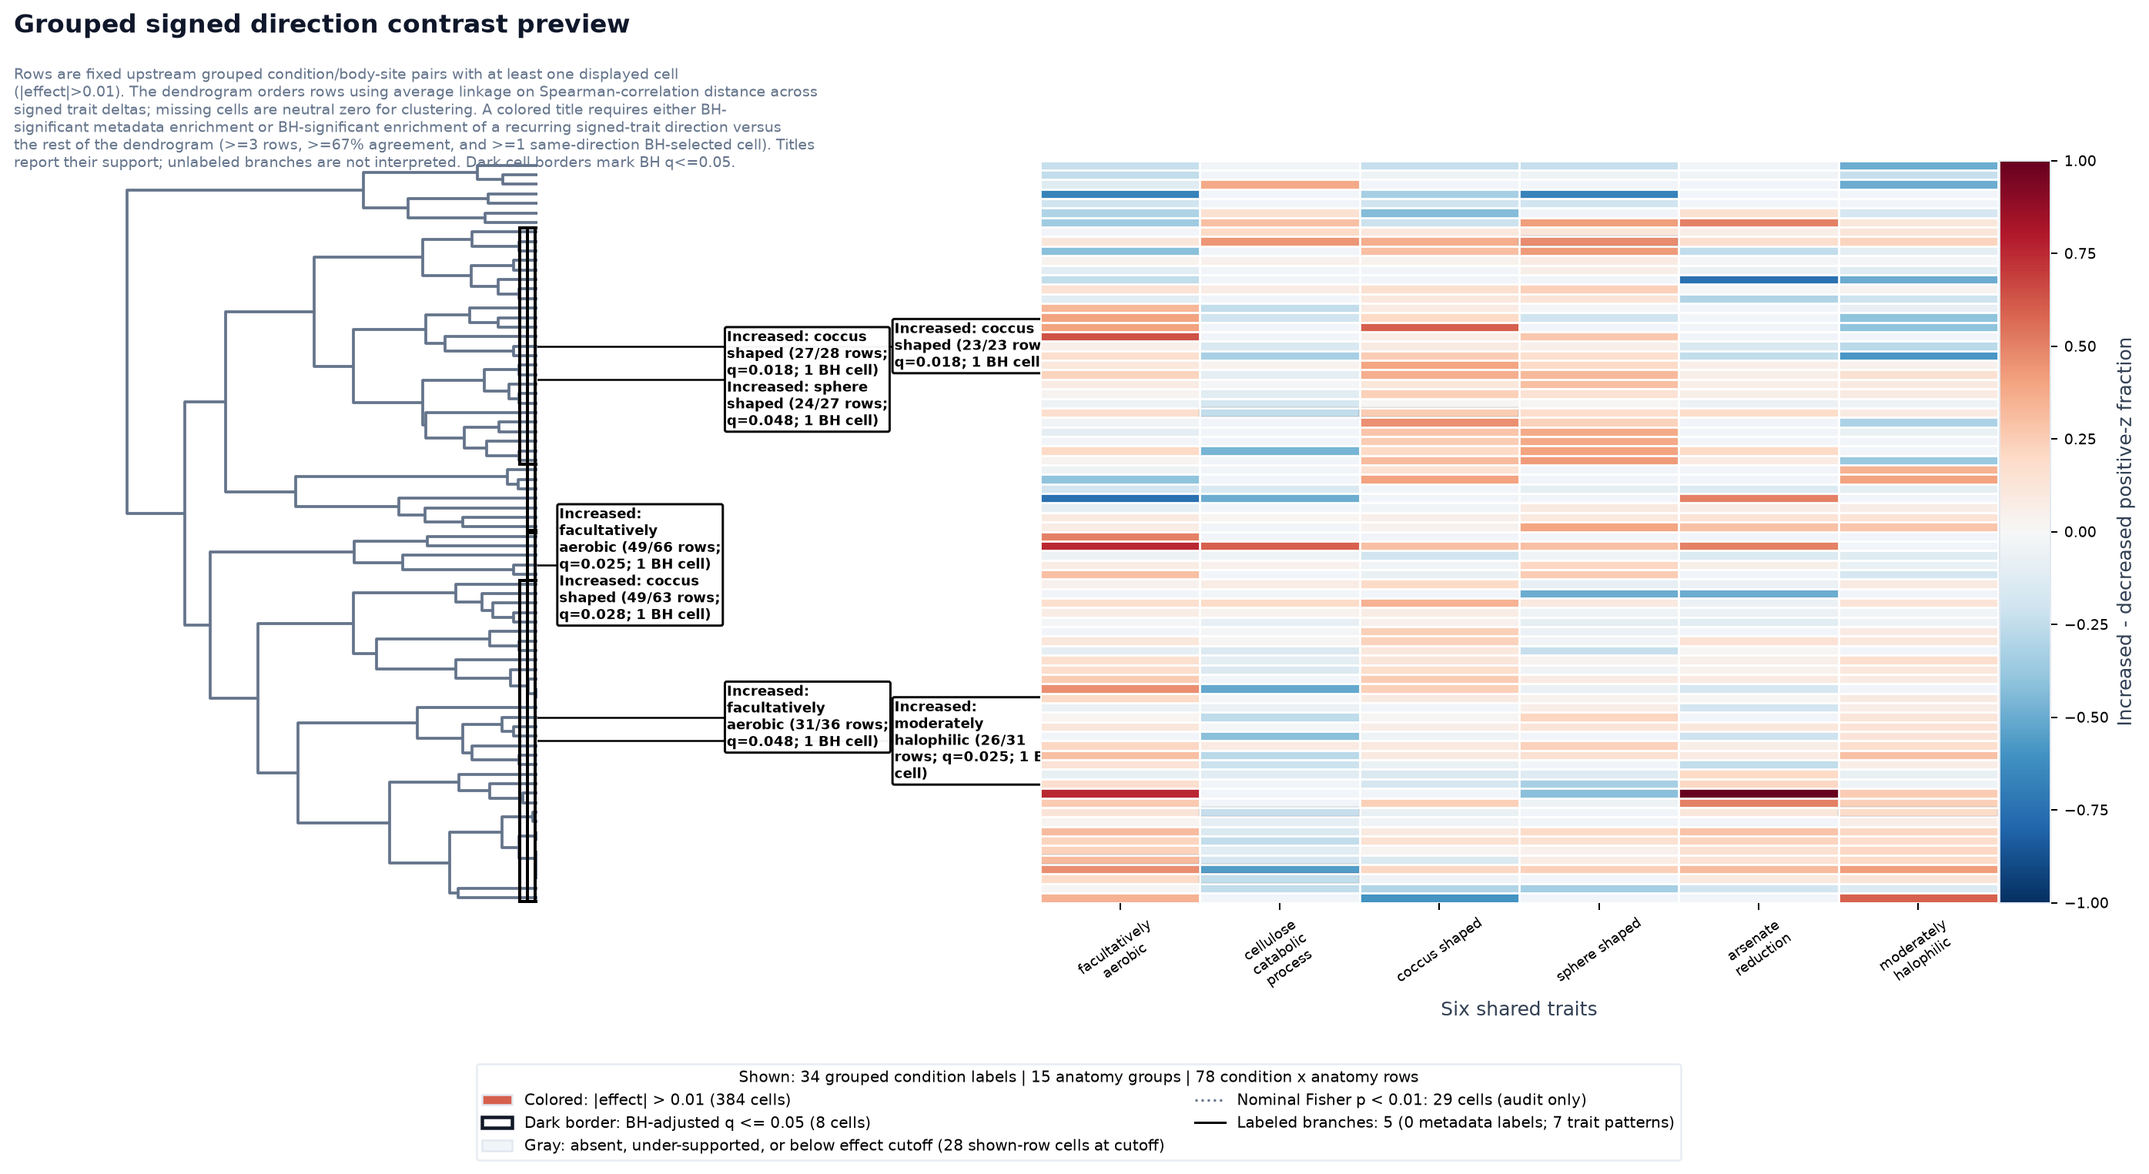
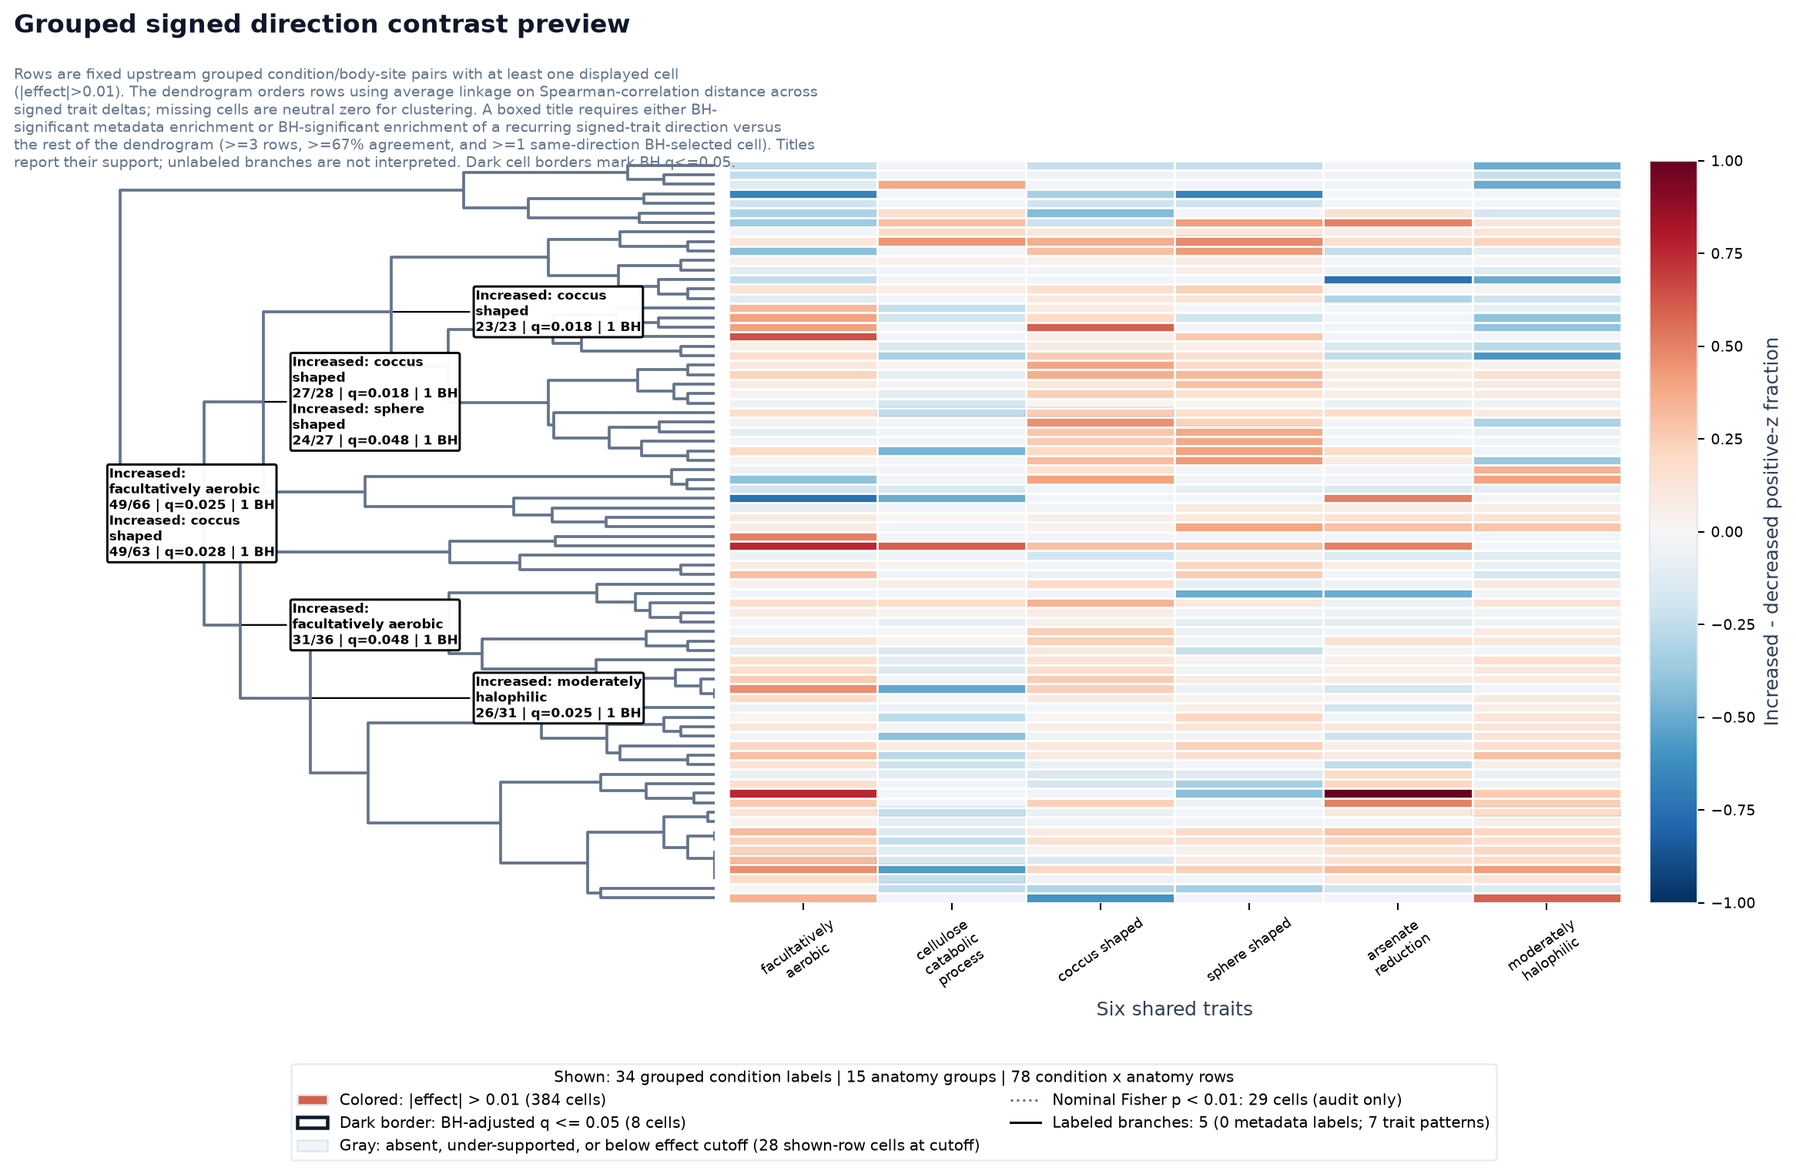
Compact signed direction dendrogram labels

diff --git a/scripts/create_six_shared_trait_cytoscape_heatmaps.py b/scripts/create_six_shared_trait_cytoscape_heatmaps.py
@@ -3,6 +3,7 @@
 from __future__ import annotations
 
 import math
+import re
 from dataclasses import dataclass
 from pathlib import Path
 from textwrap import wrap
@@ -157,6 +158,23 @@ def wrap_label(value: object, width: int = 24) -> str:
     """Wrap labels for compact heatmap axes."""
     text = str(value)
     return "\n".join(wrap(text, width=width, break_long_words=False)) or text
+
+
+def compact_dendrogram_label(value: object, *, width: int) -> str:
+    """Return a compact branch title for placement inside the dendrogram."""
+    text = str(value)
+    matches = re.findall(
+        r"(Increased|Decreased)-associated (.*?) "
+        r"\((\d+/\d+) rows; q=([^;]+); (\d+) BH cells?\)",
+        text,
+    )
+    if not matches:
+        return wrap_label(text, width=width)
+    lines = []
+    for direction, trait, row_fraction, q_value, bh_count in matches:
+        lines.append(wrap_label(f"{direction}: {trait}", width=width))
+        lines.append(f"{row_fraction} | q={q_value} | {bh_count} BH")
+    return "\n".join(lines)
 
 
 def format_p_value(value: float) -> str:
@@ -1474,47 +1492,48 @@ def plot_grouped_clustered_contrast_heatmap(
     )
     if preview:
         fig_height = 8.5
-        fig_width = 14.0 + 0.9 * label_track_count
+        fig_width = 13.8
         left = 0.08
         right = 0.92
         top = 0.86
         bottom = 0.23
         label_width = 0.01
-        branch_label_width = 1.05 * label_track_count
+        dendrogram_width = 4.2
         show_row_labels = False
         show_cell_text = False
     else:
         fig_height = max(9.5, 3.2 + 0.34 * row_count)
-        fig_width = 22.0 + 1.0 * label_track_count
+        fig_width = 22.0
         left = 0.04
         right = 0.965
         top = 1 - 1.55 / fig_height
         bottom = 1.8 / fig_height
         label_width = 3.2
-        branch_label_width = 1.1 * label_track_count
+        dendrogram_width = 4.8
         show_row_labels = True
         show_cell_text = True
 
     fig = plt.figure(figsize=(fig_width, fig_height), facecolor="white")
     grid = fig.add_gridspec(
         1,
-        5,
-        width_ratios=[2.7, branch_label_width, 6.0, label_width, 0.32],
+        4,
+        width_ratios=[dendrogram_width, 6.0, label_width, 0.32],
         left=left,
         right=right,
         top=top,
         bottom=bottom,
-        wspace=0.0,
+        wspace=0.035,
     )
     dendro_ax = fig.add_subplot(grid[0, 0])
-    branch_label_ax = fig.add_subplot(grid[0, 1])
-    ax = fig.add_subplot(grid[0, 2])
-    row_label_spacer_ax = fig.add_subplot(grid[0, 3])
-    cbar_ax = fig.add_subplot(grid[0, 4])
+    ax = fig.add_subplot(grid[0, 1])
+    row_label_spacer_ax = fig.add_subplot(grid[0, 2])
+    cbar_ax = fig.add_subplot(grid[0, 3])
 
     y_extent = row_count * 10
+    branch_node_x: dict[int, float] = {}
+    branch_node_y: dict[int, float] = {}
     if linkage_matrix is not None:
-        dendrogram(
+        dendrogram_data = dendrogram(
             linkage_matrix,
             orientation="left",
             no_labels=True,
@@ -1523,7 +1542,18 @@ def plot_grouped_clustered_contrast_heatmap(
             ax=dendro_ax,
         )
         dendro_ax.set_ylim(y_extent, 0)
-    dendro_ax.axis("off")
+        branch_node_y.update(
+            {
+                int(leaf_index): position * 10 + 5
+                for position, leaf_index in enumerate(dendrogram_data["leaves"])
+            }
+        )
+        for offset, linkage_row in enumerate(linkage_matrix):
+            node_id = row_count + offset
+            left_node = int(linkage_row[0])
+            right_node = int(linkage_row[1])
+            branch_node_x[node_id] = float(linkage_row[2])
+            branch_node_y[node_id] = (branch_node_y[left_node] + branch_node_y[right_node]) / 2
 
     branches_to_plot = (
         cluster_summary.sort_values(["nesting_depth", "leaf_start", "branch_node_id"])
@@ -1531,70 +1561,28 @@ def plot_grouped_clustered_contrast_heatmap(
         else cluster_summary
     )
     for branch in branches_to_plot.itertuples(index=False):
-        start = int(branch.leaf_start) * 10
-        end = (int(branch.leaf_end) + 1) * 10
-        midpoint = (start + end) / 2
         track = int(branch.nesting_depth)
-        bracket_x = 0.995 - 0.018 * track
-        dendro_ax.plot(
-            [bracket_x, bracket_x],
-            [start + 1, end - 1],
-            color="black",
-            linewidth=2.1 if not preview else 1.6,
-            solid_capstyle="round",
-            transform=dendro_ax.get_yaxis_transform(),
-            clip_on=False,
-            zorder=2,
+        node_id = int(branch.branch_node_id)
+        node_y = branch_node_y.get(
+            node_id,
+            (int(branch.leaf_start) + int(branch.leaf_end) + 1) * 5,
         )
-        dendro_ax.plot(
-            [bracket_x, 1.005],
-            [start + 1, start + 1],
-            color="black",
-            linewidth=2.1 if not preview else 1.6,
-            transform=dendro_ax.get_yaxis_transform(),
-            clip_on=False,
-            zorder=2,
+        node_x = branch_node_x.get(node_id, 0.0)
+        track_spacing = 0.88 / max(1, label_track_count)
+        label_x = 0.03 + track * track_spacing
+        label_text = compact_dendrogram_label(
+            branch.cluster_label,
+            width=27 if not preview else 23,
         )
-        dendro_ax.plot(
-            [bracket_x, 1.005],
-            [end - 1, end - 1],
-            color="black",
-            linewidth=2.1 if not preview else 1.6,
-            transform=dendro_ax.get_yaxis_transform(),
-            clip_on=False,
-            zorder=2,
-        )
-        branch_label_ax.plot(
-            [0, track + 0.11],
-            [midpoint, midpoint],
-            color="black",
-            linewidth=1.0,
-            zorder=1,
-        )
-        label_source = (
-            str(branch.cluster_label)
-            .replace("Pattern: ", "")
-            .replace("Increased-associated ", "Increased: ")
-            .replace("Decreased-associated ", "Decreased: ")
-            .replace(
-                "); Increased:",
-                ")\nIncreased:",
-            )
-            .replace(
-                "); Decreased:",
-                ")\nDecreased:",
-            )
-        )
-        label_text = "\n".join(
-            wrap_label(part, width=25 if not preview else 20) for part in label_source.splitlines()
-        )
-        branch_label_ax.text(
-            track + 0.13,
-            midpoint,
+        dendro_ax.annotate(
             label_text,
+            xy=(node_x, node_y),
+            xycoords="data",
+            xytext=(label_x, node_y),
+            textcoords=dendro_ax.get_yaxis_transform(),
             ha="left",
             va="center",
-            fontsize=8.4 if not preview else 7.1,
+            fontsize=8.0 if not preview else 6.7,
             color="black",
             fontweight="bold",
             bbox={
@@ -1604,15 +1592,18 @@ def plot_grouped_clustered_contrast_heatmap(
                 "linewidth": 1.2,
                 "alpha": 0.96,
             },
+            arrowprops={
+                "arrowstyle": "-",
+                "color": "black",
+                "linewidth": 0.9,
+                "shrinkA": 2,
+                "shrinkB": 1,
+            },
+            annotation_clip=False,
             clip_on=False,
             zorder=5,
         )
-    branch_label_ax.set_xlim(0, label_track_count)
-    branch_label_ax.set_ylim(y_extent, 0)
-    branch_label_ax.set_xticks([])
-    branch_label_ax.set_yticks([])
-    for spine in branch_label_ax.spines.values():
-        spine.set_visible(False)
+    dendro_ax.axis("off")
     row_label_spacer_ax.patch.set_alpha(0)
     row_label_spacer_ax.set_zorder(-1)
     row_label_spacer_ax.axis("off")
@@ -1720,7 +1711,7 @@ def plot_grouped_clustered_contrast_heatmap(
         "Rows are fixed upstream grouped condition/body-site pairs with at least one displayed "
         f"cell (|effect|>{SIGNED_EFFECT_ABS_CUTOFF:g}). The dendrogram orders rows using average "
         "linkage on Spearman-correlation distance across signed trait deltas; missing cells are "
-        "neutral zero for clustering. A colored title requires either BH-significant metadata "
+        "neutral zero for clustering. A boxed title requires either BH-significant metadata "
         "enrichment or BH-significant enrichment of a recurring signed-trait direction versus "
         "the rest of the dendrogram (>=3 rows, >=67% agreement, and >=1 same-direction "
         "BH-selected cell). Titles report their support; unlabeled branches are not interpreted. "
@@ -2068,11 +2059,11 @@ def append_readme_section(output_dir: Path, manifest: pd.DataFrame) -> None:
         "rule, profile count, and study count. Every internal dendrogram branch is tested for "
         "one-sided enrichment of each eligible anatomy and grouped-condition label versus all "
         "rows outside that branch. BH adjustment covers the complete tested branch-by-label "
-        "family. A branch is colored and named only when q<=0.05, it has at least 3 rows and 2 "
-        "matching rows, and the label describes at least two-thirds of the branch. Every "
-        "qualifying nested branch is drawn in a separate annotation track. Each visible label "
-        "reports its matching-row fraction and adjusted q-value; unlabeled branches are not "
-        "interpreted.",
+        "family. A branch is named only when q<=0.05, it has at least 3 rows and 2 matching "
+        "rows, and the label describes at least two-thirds of the branch. Every qualifying "
+        "nested label is placed directly inside the dendrogram and connected to its branch node. "
+        "Each visible label reports its matching-row fraction and adjusted q-value; unlabeled "
+        "branches are not interpreted.",
         "A branch without significant anatomy/condition enrichment may instead receive a "
         "descriptive trait-pattern title. Each branch/trait/direction is tested for one-sided "
         "enrichment against displayed rows outside the branch, with BH adjustment across the "
@@ -2105,8 +2096,8 @@ def append_readme_section(output_dir: Path, manifest: pd.DataFrame) -> None:
         "minimum-size, and minimum-purity rules receive an anatomy/condition title. Other branches "
         "can receive a descriptive trait-pattern title only under branch-pattern BH significance, "
         "BH-cell support, recurrence, and directional-purity rules. All qualifying nested labels "
-        "are separated into tracks, and the two audit TSVs preserve every rejected and accepted "
-        "metadata or trait-pattern candidate.",
+        "are overlaid compactly inside the dendrogram and connected to their tested nodes; the "
+        "two audit TSVs preserve every rejected and accepted metadata or trait-pattern candidate.",
         "- Individual-condition signed-direction heatmaps still receive readable pages containing "
         f"at most {CONTRAST_ROWS_PER_PAGE} rows each. `{CONTRAST_PAGES_FILENAME}` records only "
         "those individual-condition page paths and counts.",

diff --git a/tests/test_six_shared_trait_cytoscape_heatmaps.py b/tests/test_six_shared_trait_cytoscape_heatmaps.py
@@ -240,6 +240,23 @@ def test_signed_effect_cutoff_is_strictly_greater_than_point_zero_one() -> None:
     assert finalized.loc[0, "blank_reason"] == "absolute effect <=0.01"
 
 
+def test_compact_dendrogram_label_keeps_each_supported_pattern_readable() -> None:
+    label = (
+        "Pattern: Increased-associated coccus shaped "
+        "(23/23 rows; q=0.018; 1 BH cell); Increased-associated sphere shaped "
+        "(24/27 rows; q=0.048; 2 BH cells)"
+    )
+
+    compact = heatmaps.compact_dendrogram_label(label, width=30)
+
+    assert compact.splitlines() == [
+        "Increased: coccus shaped",
+        "23/23 | q=0.018 | 1 BH",
+        "Increased: sphere shaped",
+        "24/27 | q=0.048 | 2 BH",
+    ]
+
+
 def test_contrast_legend_reports_visible_scope_and_significance() -> None:
     mode = heatmaps.CONTRAST_MODES[0]
     cells = pd.DataFrame(

diff --git a/trait-visualization/trait-profile-investigation/six-shared-traits/README.md b/trait-visualization/trait-profile-investigation/six-shared-traits/README.md
@@ -109,13 +109,13 @@ Signed contrasts display supported, testable effects whose absolute magnitude is
 
 The signed heatmaps do not choose a top-N disease list. They read the full increased and decreased Sankey edge tables before graph display selection and include every condition/body-site row with at least one supported, finite cell above the absolute-effect cutoff. The grouped view uses the fixed upstream v3 clinical rollup; the individual view retains the original curated condition label. Both use the upstream grouped v3 anatomy label. These condition and anatomy names are not inferred from the dendrogram.
 
-Grouped conditions are assigned by the ordered, case-insensitive substring rules in `v3_fully_grouped_condition_display_label`: the first matching rule wins and unmatched labels become `Other specific clinical labels`. The per-trait `*_profile_sankey_condition_rollups.tsv` files audit each raw label, displayed label, rule, profile count, and study count. Every internal dendrogram branch is tested for one-sided enrichment of each eligible anatomy and grouped-condition label versus all rows outside that branch. BH adjustment covers the complete tested branch-by-label family. A branch is colored and named only when q<=0.05, it has at least 3 rows and 2 matching rows, and the label describes at least two-thirds of the branch. Every qualifying nested branch is drawn in a separate annotation track. Each visible label reports its matching-row fraction and adjusted q-value; unlabeled branches are not interpreted.
+Grouped conditions are assigned by the ordered, case-insensitive substring rules in `v3_fully_grouped_condition_display_label`: the first matching rule wins and unmatched labels become `Other specific clinical labels`. The per-trait `*_profile_sankey_condition_rollups.tsv` files audit each raw label, displayed label, rule, profile count, and study count. Every internal dendrogram branch is tested for one-sided enrichment of each eligible anatomy and grouped-condition label versus all rows outside that branch. BH adjustment covers the complete tested branch-by-label family. A branch is named only when q<=0.05, it has at least 3 rows and 2 matching rows, and the label describes at least two-thirds of the branch. Every qualifying nested label is placed directly inside the dendrogram and connected to its branch node. Each visible label reports its matching-row fraction and adjusted q-value; unlabeled branches are not interpreted.
 A branch without significant anatomy/condition enrichment may instead receive a descriptive trait-pattern title. Each branch/trait/direction is tested for one-sided enrichment against displayed rows outside the branch, with BH adjustment across the complete branch-pattern family. A displayed pattern requires q<=0.05, at least three same-direction displayed cells, at least two-thirds directional agreement, and at least one same-direction cell already selected at heatmap-wide BH q<=0.05. Pattern titles report the matching-row fraction, branch-pattern q-value, and BH-cell count. The pattern-test TSV records every test and selection flag.
 
 - `trait_pattern`: Approach 2. Rows are condition/body-site pairs and columns are the six traits. Cell color is Fisher evidence, `-log10(p)`, rendered with a yellow-to-blue sequential palette so darker cells have smaller p-values. Cells require Fisher p<0.01, n>=3, and s>=2 for exploratory display.
 - `signed_direction_contrast`: Approach 4. Rows are condition/body-site pairs and columns are traits. Cell color and numbers are `increased_fraction - decreased_fraction` on a fixed -1 to +1 scale. Red favors increased profiles and blue favors decreased profiles. A dark border marks BH-adjusted q<=0.05; the nominal Fisher p<0.01 flag is reported separately. Unbordered cells are descriptive effects. Cells also require absolute effect >0.01.
 - Condition/body-site rows are chosen from the full increased and decreased edge TSVs, not from the graph display subset. A row is retained when at least one trait cell has a finite increased-vs-decreased Fisher test, absolute effect above the cutoff, at least 3 positive-z profiles in either direction, and at least 2 total studies.
-- The grouped signed-direction heatmap is a single clustered diagram. Rows use average linkage on Spearman-correlation distance across the six signed trait deltas; missing or unsupported cells are neutral zero for clustering. The left dendrogram orders condition/anatomy rows. Only branches passing the multiplicity-adjusted enrichment, minimum-size, and minimum-purity rules receive an anatomy/condition title. Other branches can receive a descriptive trait-pattern title only under branch-pattern BH significance, BH-cell support, recurrence, and directional-purity rules. All qualifying nested labels are separated into tracks, and the two audit TSVs preserve every rejected and accepted metadata or trait-pattern candidate.
+- The grouped signed-direction heatmap is a single clustered diagram. Rows use average linkage on Spearman-correlation distance across the six signed trait deltas; missing or unsupported cells are neutral zero for clustering. The left dendrogram orders condition/anatomy rows. Only branches passing the multiplicity-adjusted enrichment, minimum-size, and minimum-purity rules receive an anatomy/condition title. Other branches can receive a descriptive trait-pattern title only under branch-pattern BH significance, BH-cell support, recurrence, and directional-purity rules. All qualifying nested labels are overlaid compactly inside the dendrogram and connected to their tested nodes; the two audit TSVs preserve every rejected and accepted metadata or trait-pattern candidate.
 - Individual-condition signed-direction heatmaps still receive readable pages containing at most 24 rows each. `six_shared_trait_signed_direction_heatmap_pages.tsv` records only those individual-condition page paths and counts.
 - BH q-values are computed within each heatmap view. `selected_after_bh=True` marks supported cells with q<=0.05; visible selected cells receive the dark border and selected candidates are collected in the BH-selected cell table. `nominal_p_value_selected` is the explicit nominal flag; `significant_in_heatmap` remains a compatibility alias for that nominal flag.
 - Issue #256 / PR #257 adds pooled, denominator-harmonized, study-weighted fraction and log-ratio quantities, but no condition-by-anatomy replacement for this heatmap. Those pooled quantities are not mixed into this profile-level positive-z prevalence contrast because the estimands and sampling units differ.

diff --git a/trait-visualization/figure_methods.md b/trait-visualization/figure_methods.md
@@ -1525,9 +1525,9 @@ using a one-sided Fisher exact test. BH adjustment is applied across the complet
 branch-by-label family. A branch is colored and labeled only when `q <= 0.05`,
 it contains at least three rows and two matching rows, and the label describes
 at least two-thirds of its rows. Every qualifying nested branch is shown, with
-nested labels separated into parallel annotation tracks beside the dendrogram.
-Visible labels report the matching-row fraction and adjusted q-value; unlabeled
-branches are not interpreted. The full hypothesis family and selection flags are retained in
+compact labels placed directly inside the dendrogram and connected to the tested
+branch nodes. Visible labels report the matching-row fraction and adjusted q-value;
+unlabeled branches are not interpreted. The full hypothesis family and selection flags are retained in
 `six_shared_traits_grouped_signed_direction_branch_label_tests.tsv`. The
 `six_shared_traits_grouped_signed_direction_cluster_rows.tsv` plus
 `six_shared_traits_grouped_signed_direction_cluster_summary.tsv` record displayed
